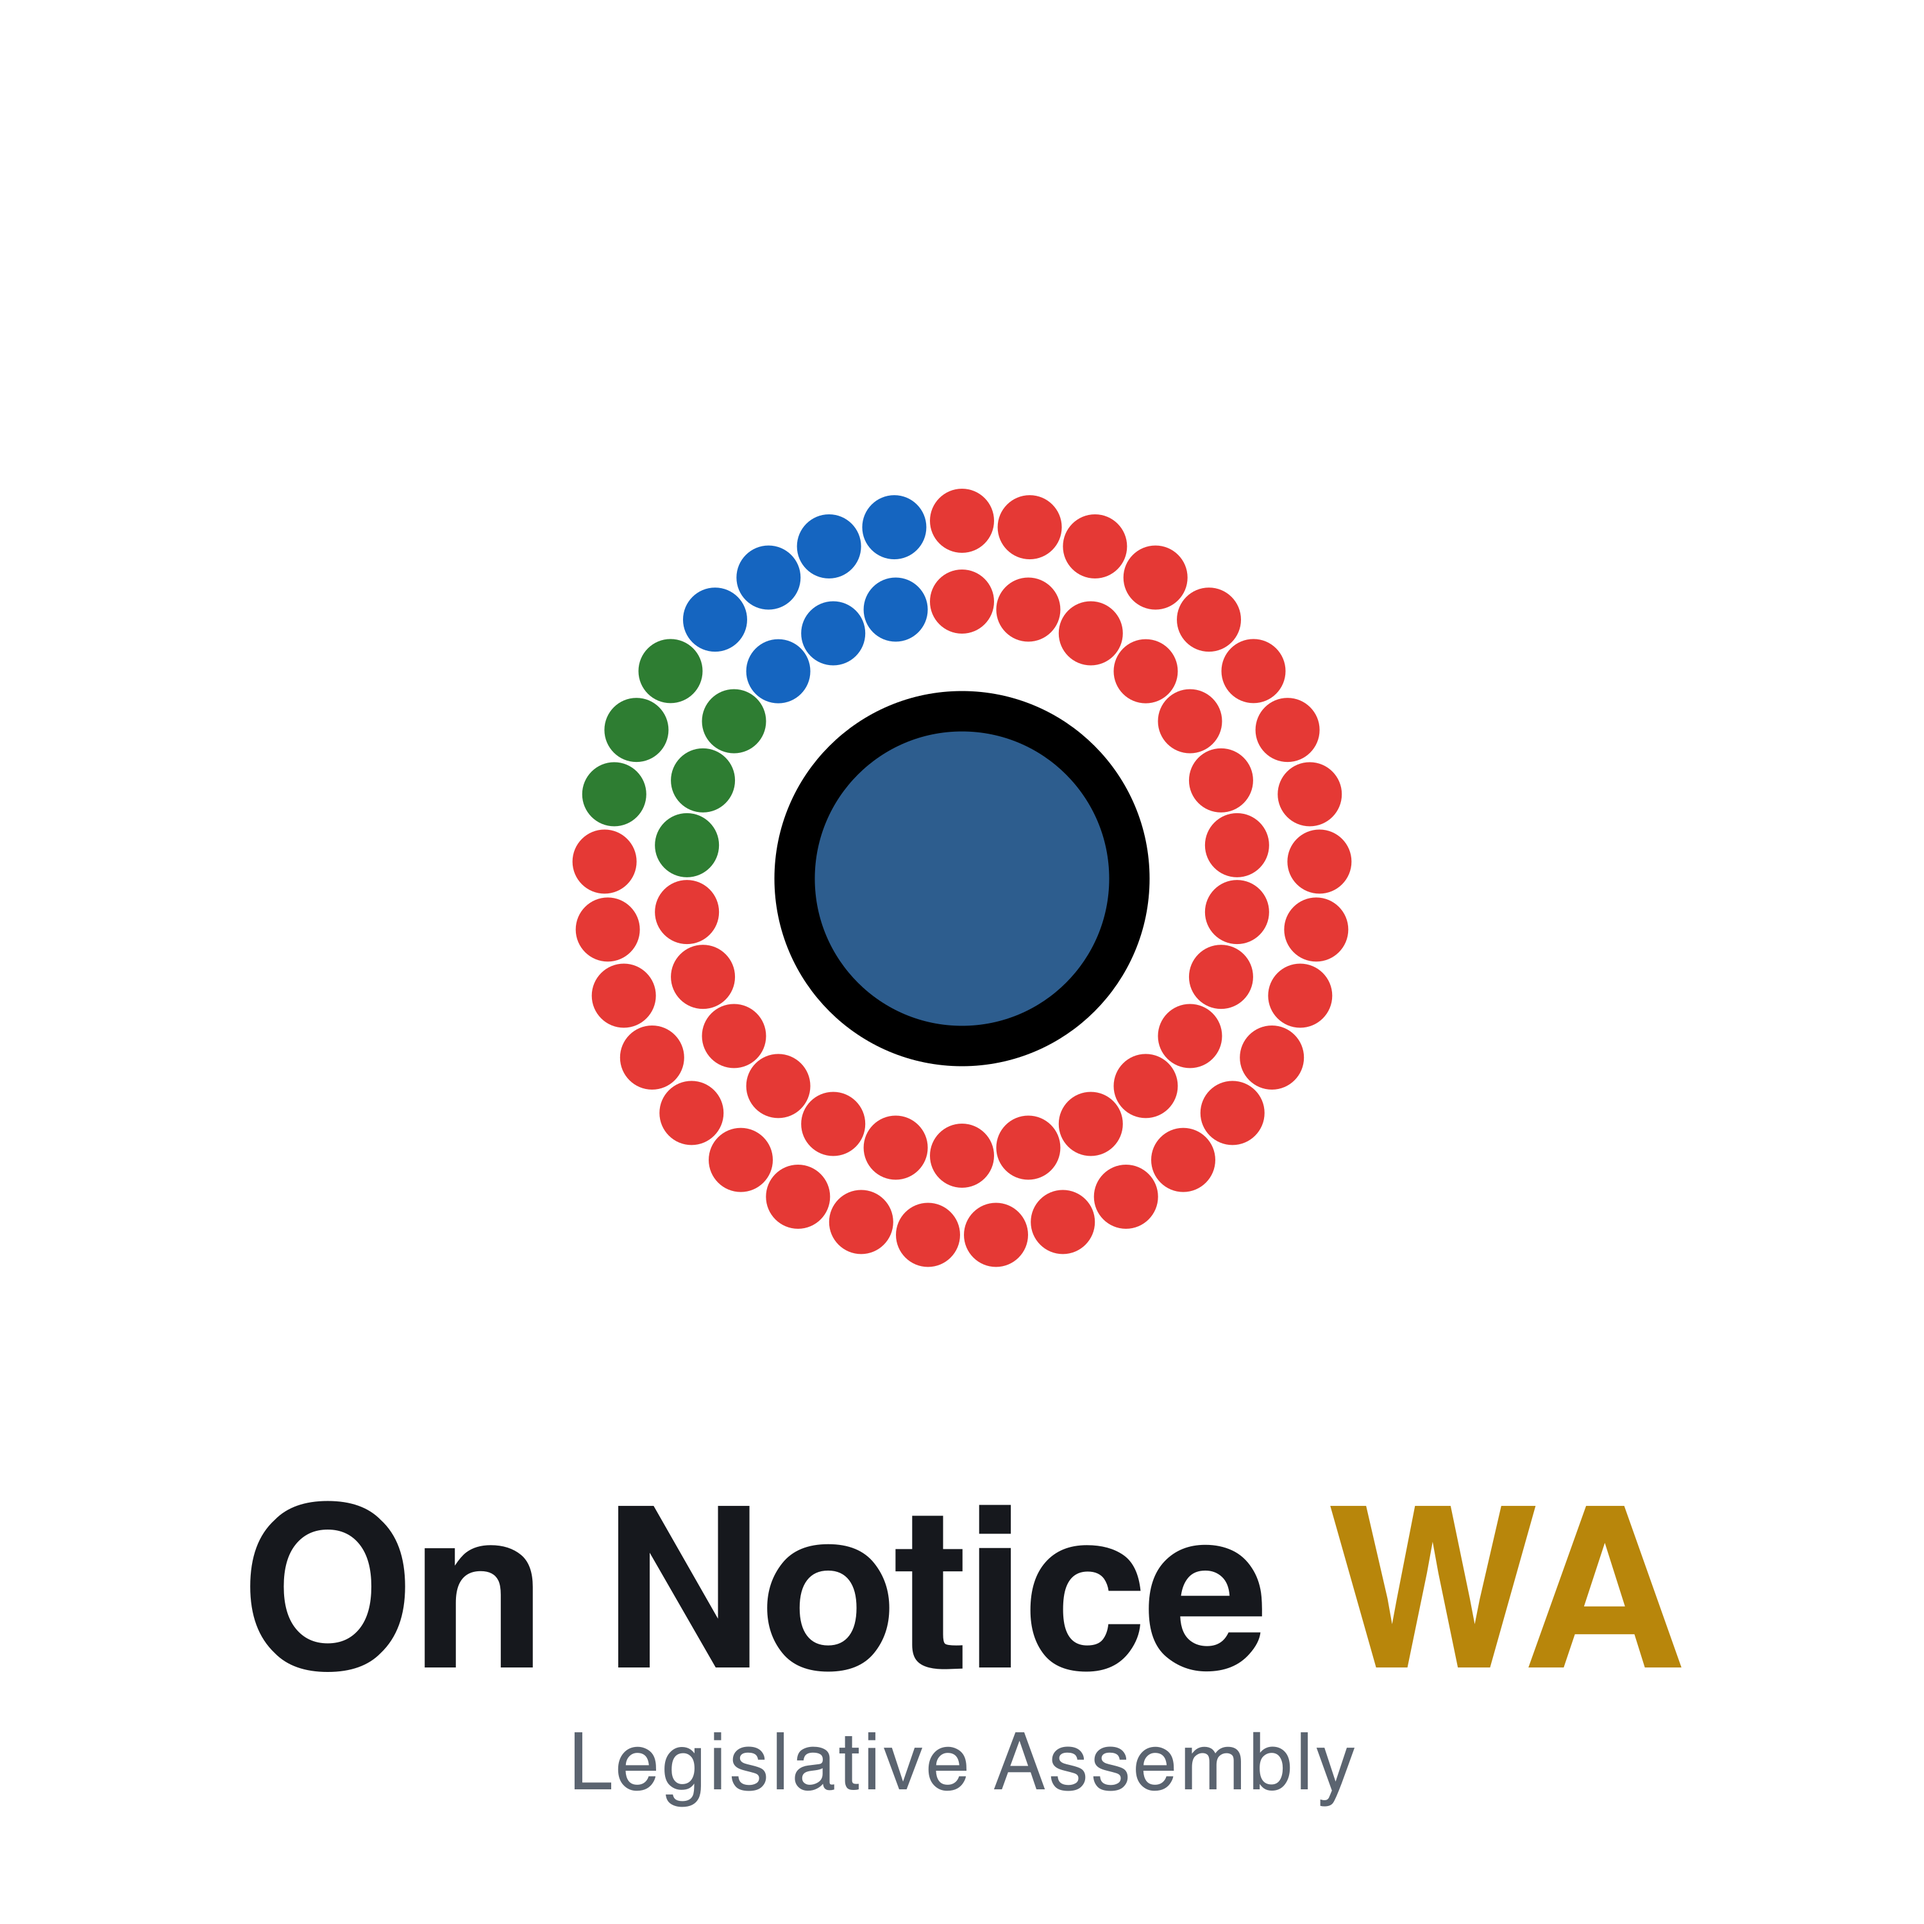
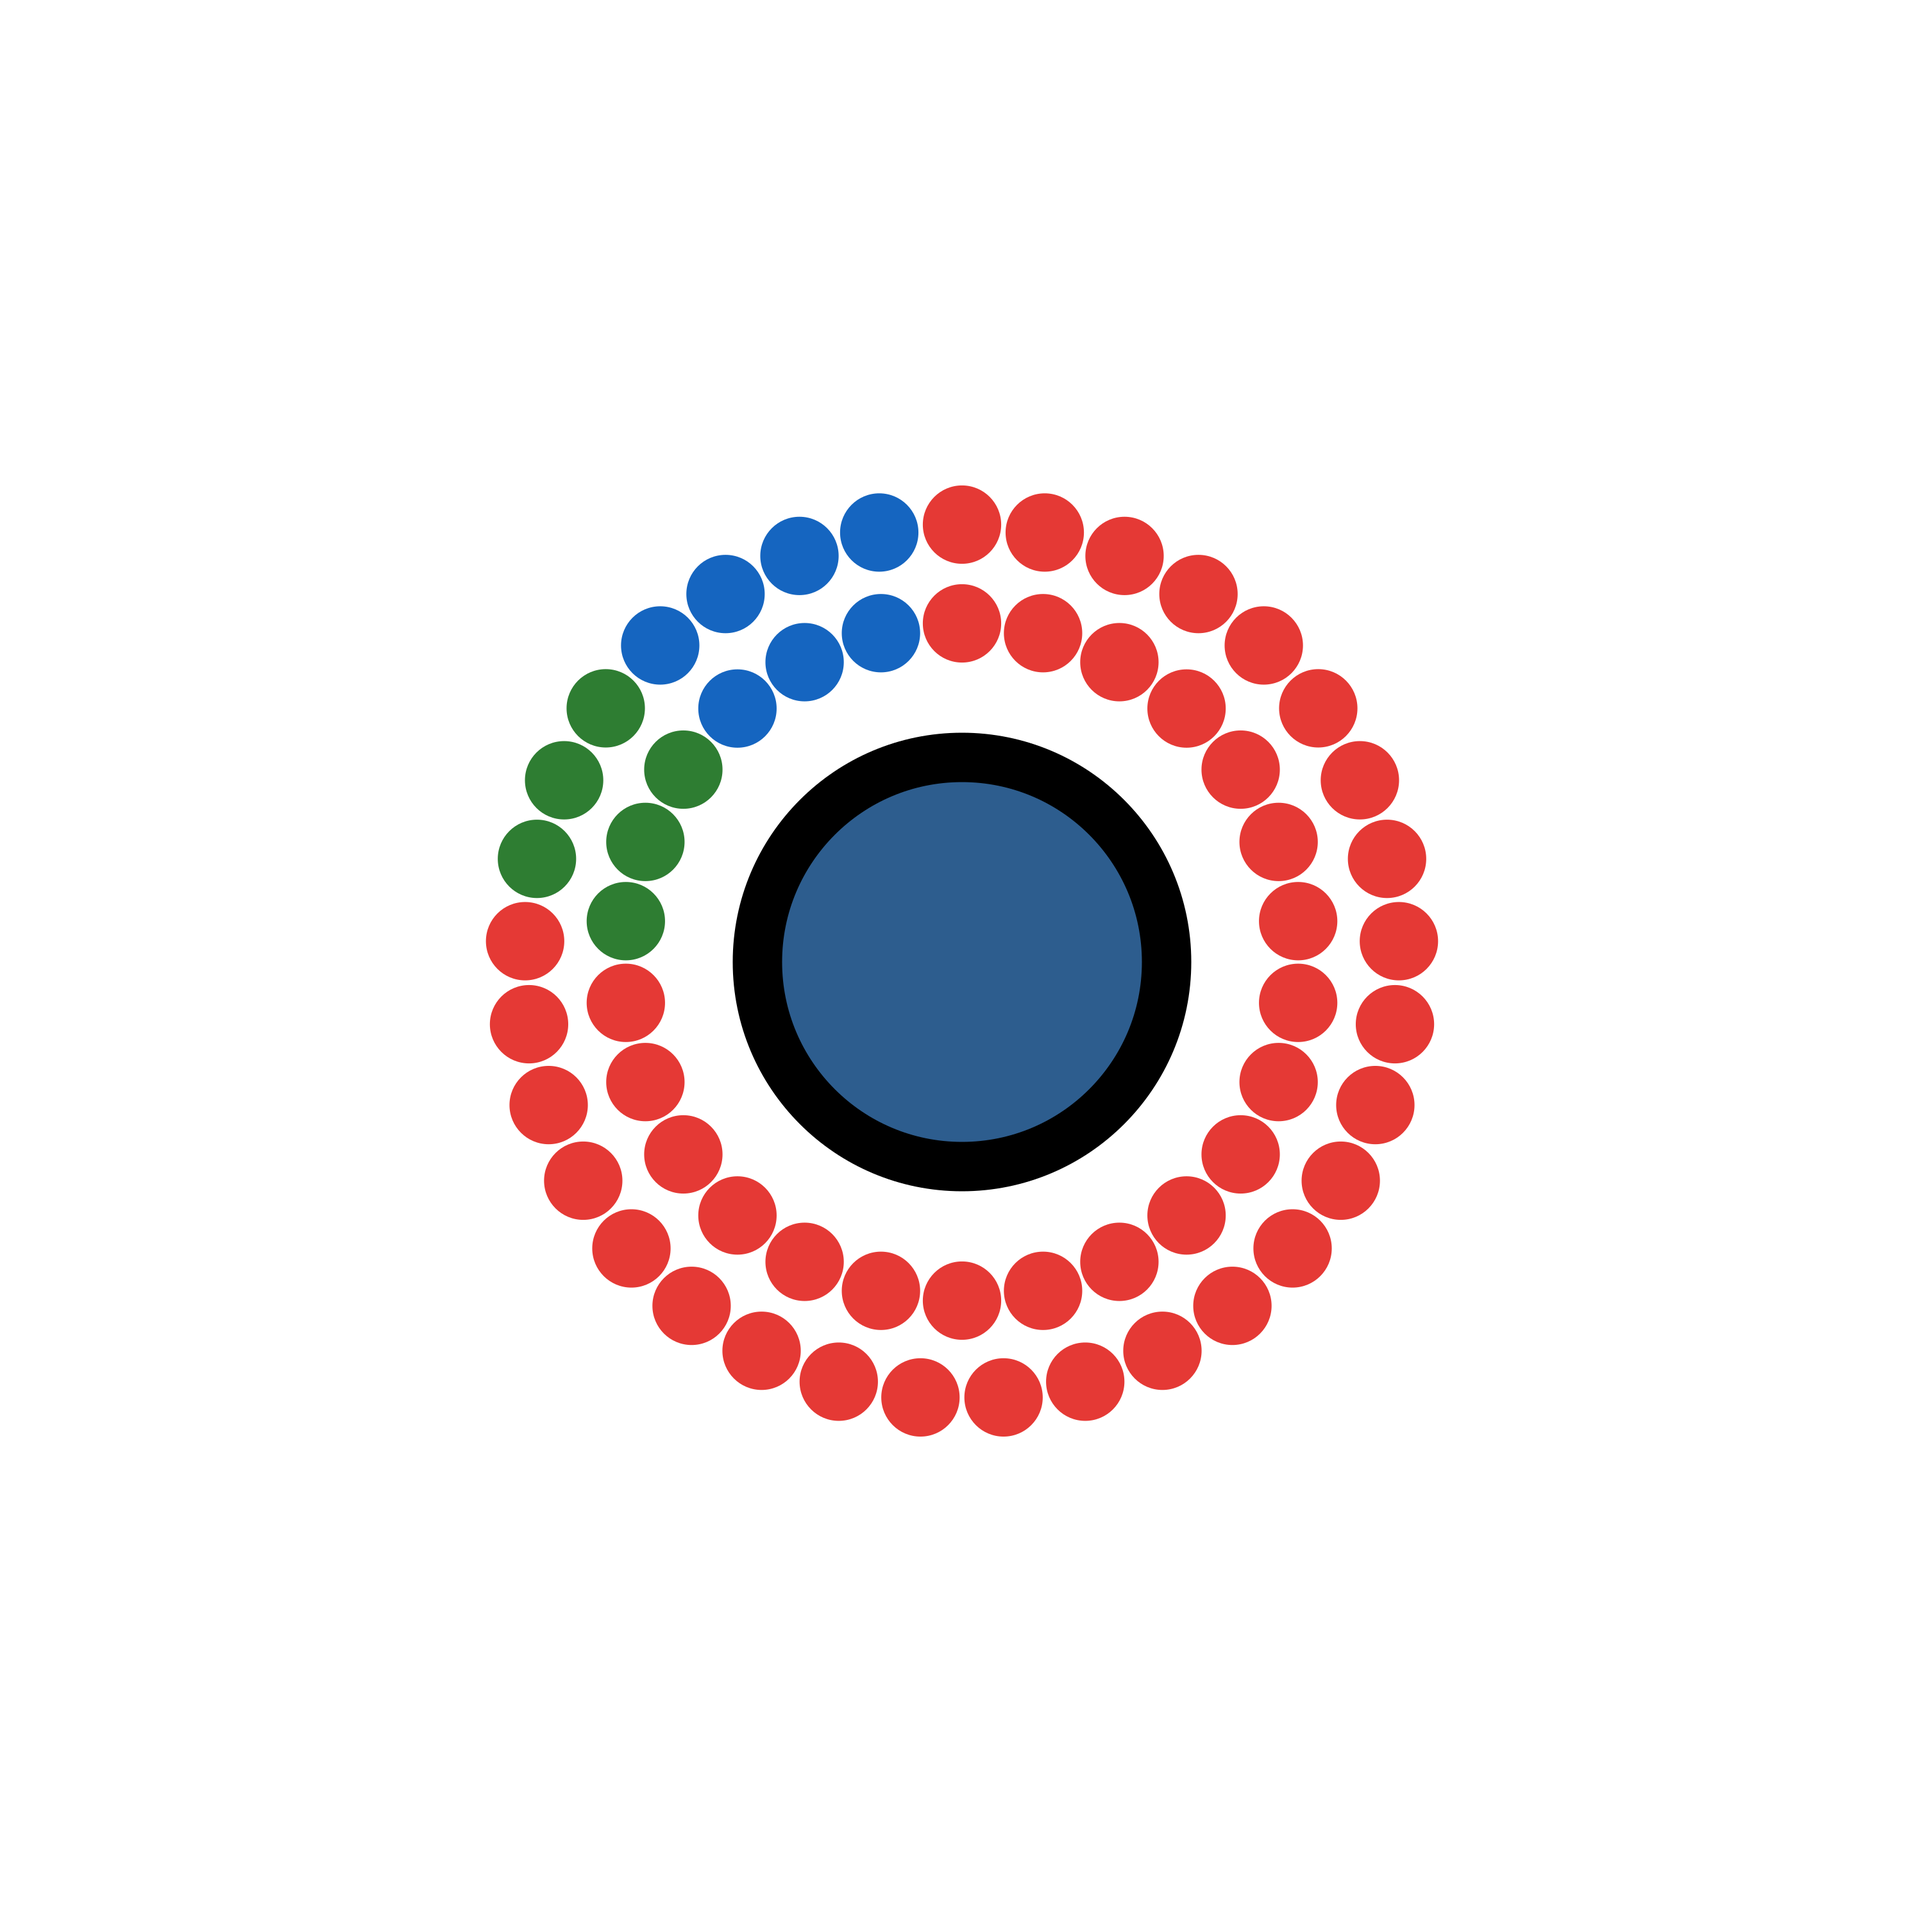
WA: use the real WA emblem on podcast covers (no text) + black/gold WA pill
- Channel cover now uses the combined WA seat-chart emblem (gold centre),
  not the federal logo. Added the missing /wa/icon.svg to the repo (it was
  only lingering on the CDN).
- All three covers (channel, LA, LC) are now the bare emblem on white — no
  "On Notice WA" wordmark.
- Header WA pill restyled to WA's black and gold.

diff --git a/apps/web/app/wa/layout.tsx b/apps/web/app/wa/layout.tsx
@@ -22,7 +22,7 @@ export default function WALayout({ children }: { children: React.ReactNode }) {
             <Image src="/wa/icon.svg" alt="On Notice WA" width={32} height={32} />
             <div className="flex items-baseline gap-2">
               <span className="text-xl font-bold tracking-tight">On Notice</span>
-              <span className="text-sm font-semibold text-gold px-1.5 py-0.5 rounded bg-[#FFD700]/15 text-[#B8860B]">
+              <span className="text-sm font-bold px-1.5 py-0.5 rounded bg-black text-[#FFD200]">
                 WA
               </span>
             </div>
